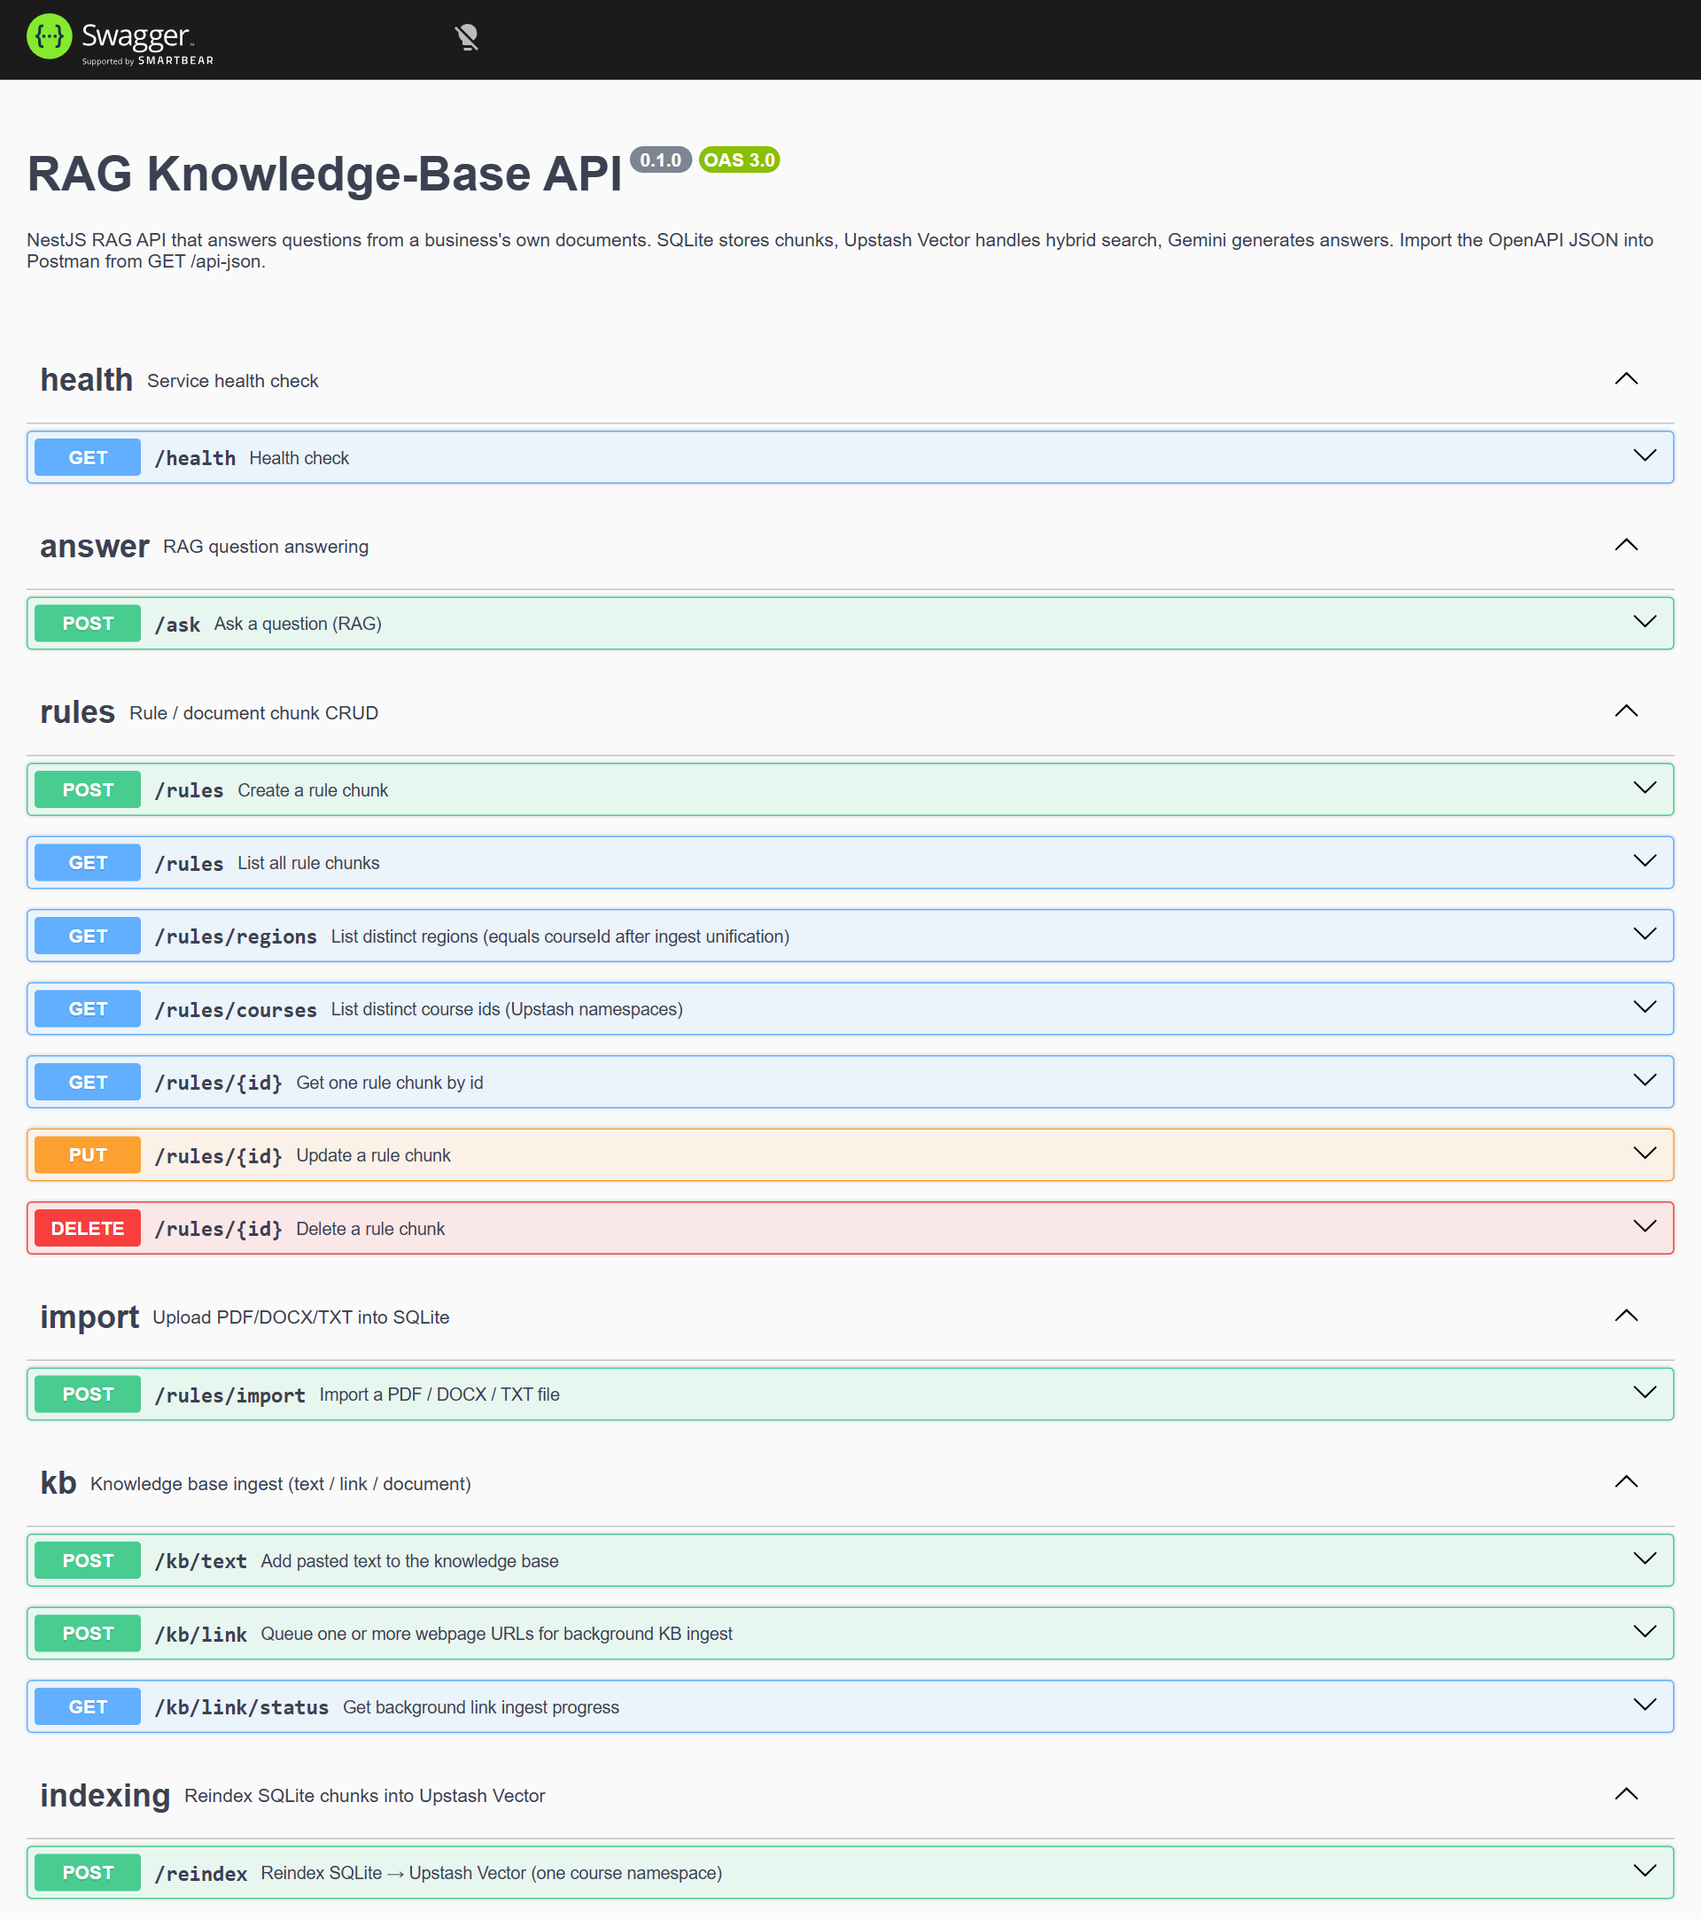
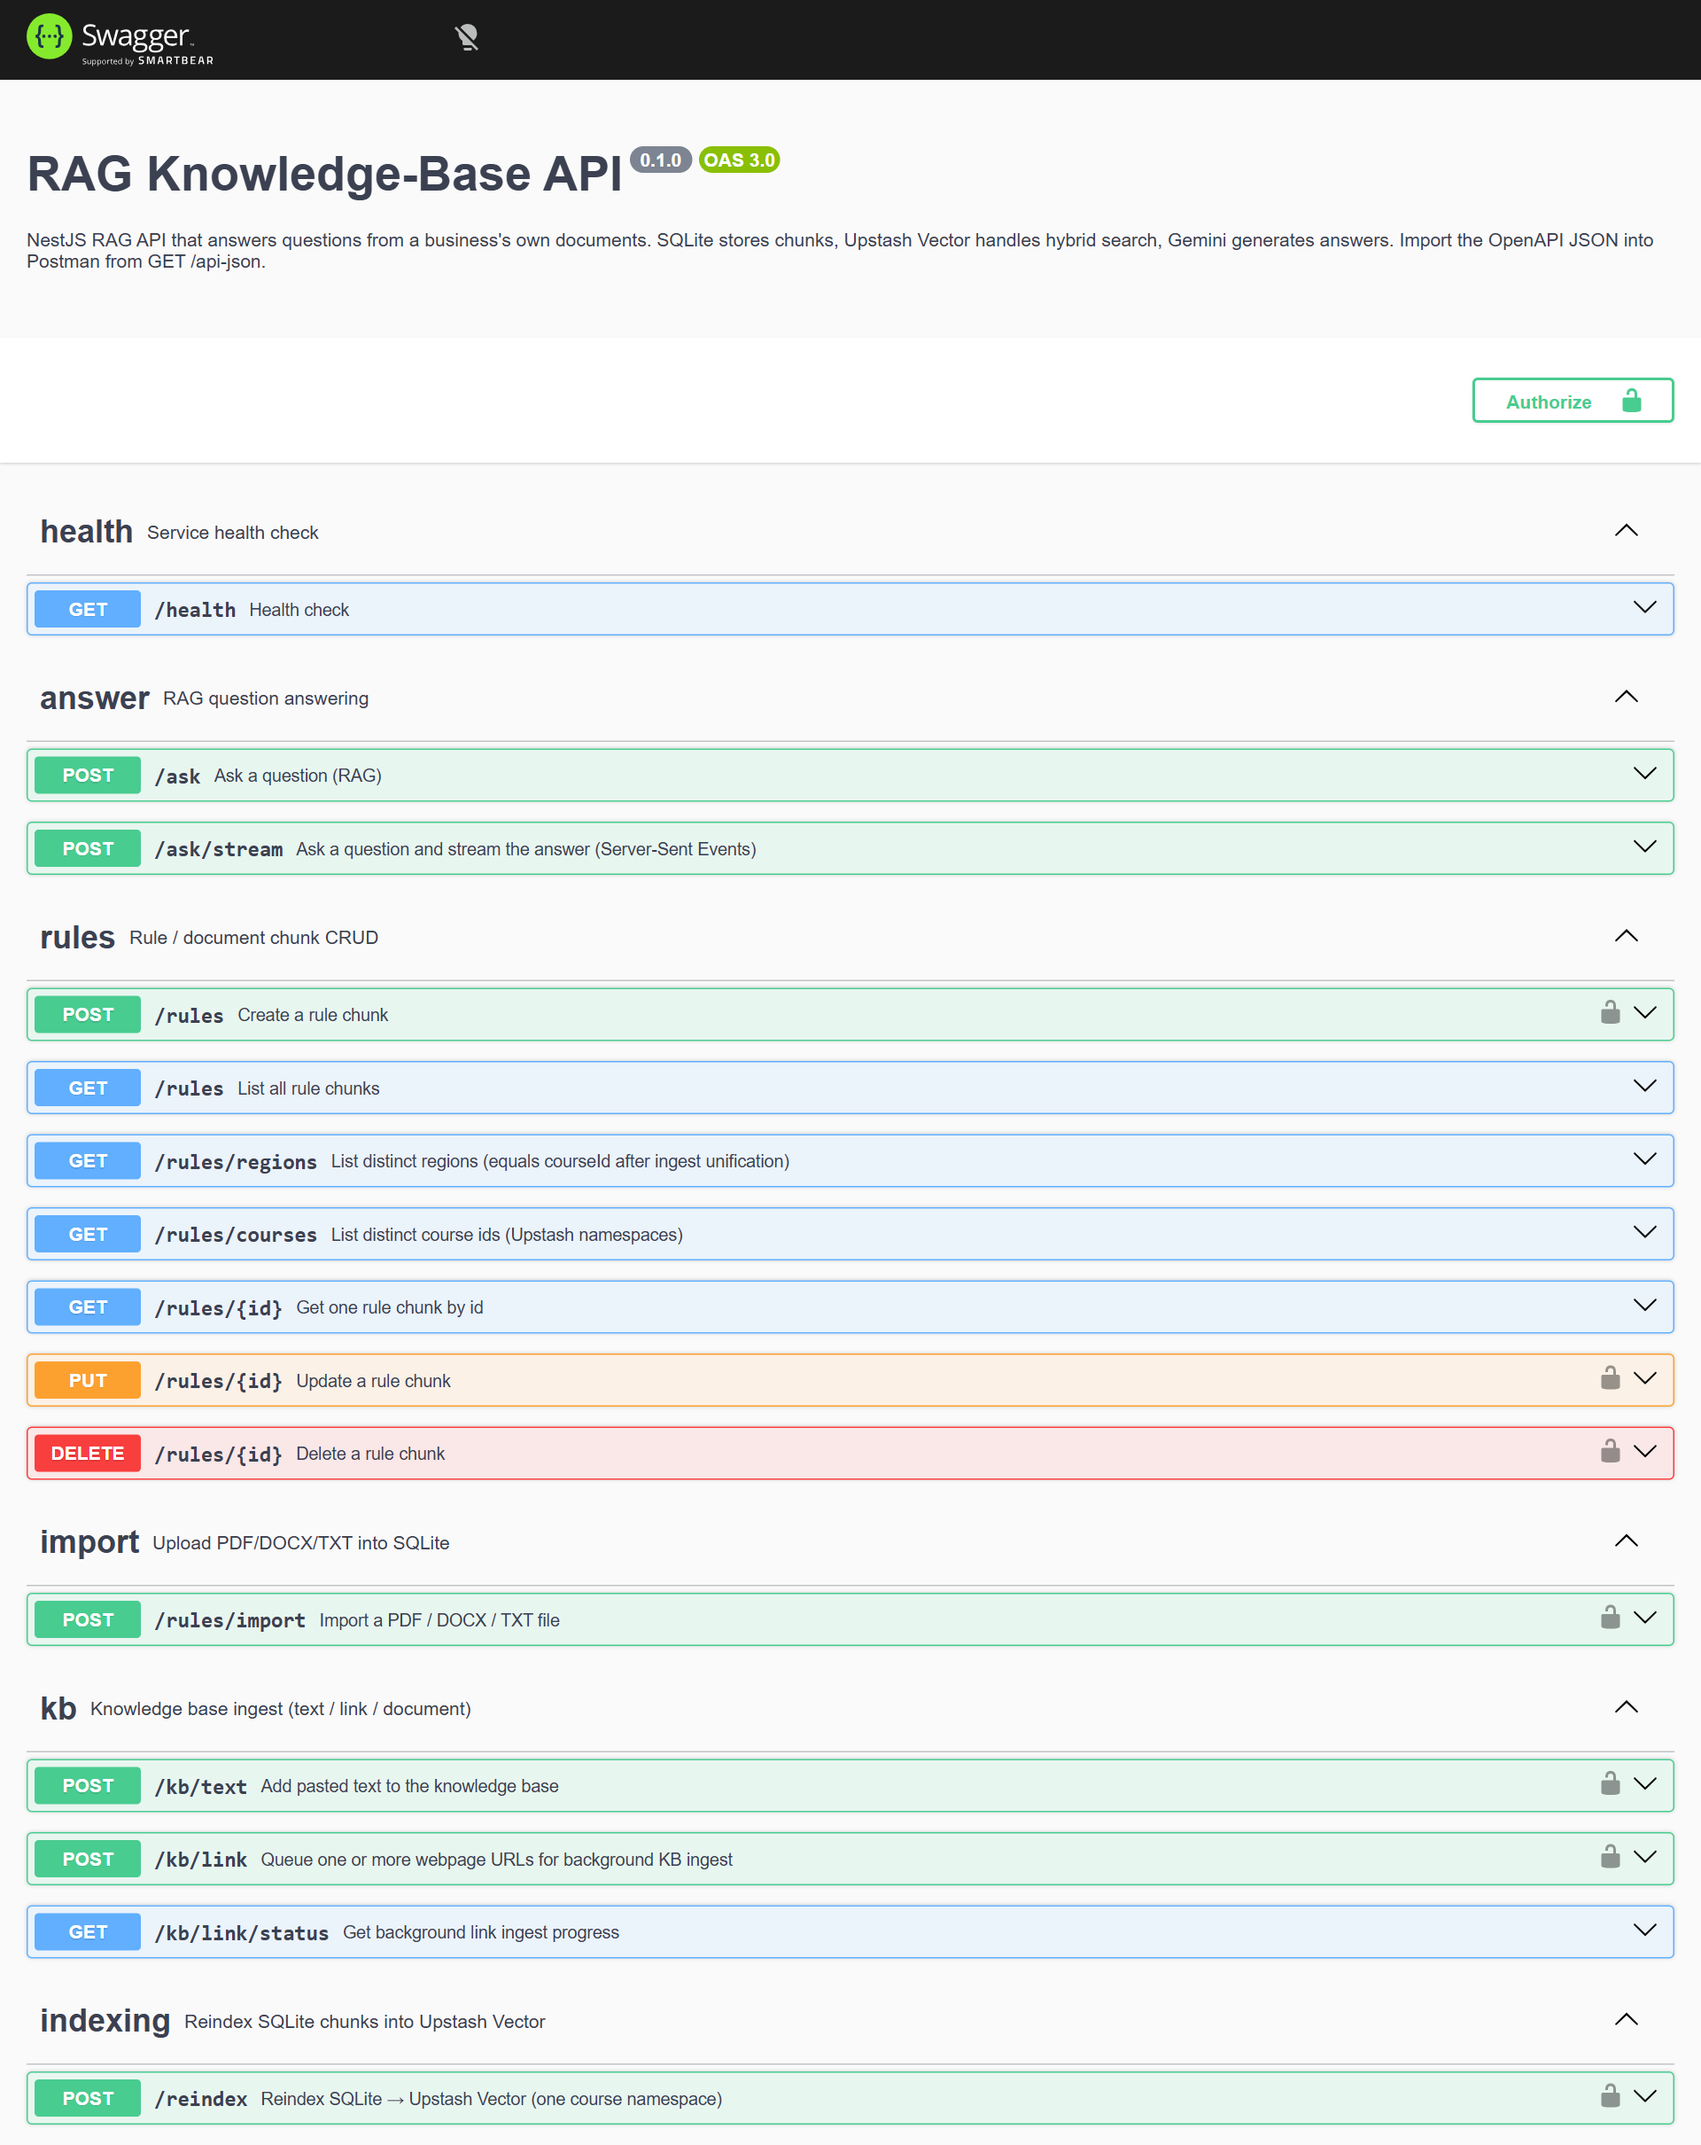
Update README with features, demo GIF and new screenshots

diff --git a/README.md b/README.md
@@ -1,9 +1,32 @@
-# RAG Knowledge-Base API (NestJS)
+# RAG Knowledge-Base (NestJS + React)
 
-A backend that answers questions using **only** a business's own documents.
-Upload PDFs, Word files, web pages or plain text; ask a question; get an answer grounded in those documents.
+[![CI](https://github.com/josephamal10/rag-knowledge-base-api/actions/workflows/ci.yml/badge.svg)](https://github.com/josephamal10/rag-knowledge-base-api/actions/workflows/ci.yml)
+![NestJS](https://img.shields.io/badge/NestJS-11-E0234E?logo=nestjs&logoColor=white)
+![React](https://img.shields.io/badge/React-19-61DAFB?logo=react&logoColor=black)
+![TypeScript](https://img.shields.io/badge/TypeScript-5-3178C6?logo=typescript&logoColor=white)
+![License: MIT](https://img.shields.io/badge/License-MIT-green)
 
-Built during my internship at **Nanonino** and shared with their permission. Client data, keys and client-specific code have been removed.
+A full-stack AI assistant that answers questions using **only** a business's own documents — rules, prices,
+rooms, events and contact details — and says so honestly when something isn't covered.
+Upload PDFs, Word files, web pages or plain text; ask a question; get a streamed answer with the sources it came from.
+
+- **Backend** (`/src`) — NestJS RAG API, built during my internship at **Nanonino** and shared with their permission. Client data, keys and client-specific code have been removed.
+- **Frontend** (`/frontend`) — React chat interface, added afterwards.
+
+![Demo: asking questions, a follow-up, and viewing sources](docs/images/demo.gif)
+
+## Features
+
+- **Grounded answers with citations** — every answer lists the document chunks it was based on; no made-up answers.
+- **Hybrid search** — semantic (Gemini embeddings) + keyword (sparse vectors) search in Upstash Vector, fused with Reciprocal Rank Fusion.
+- **Topic routing** — an LLM classifier picks the relevant topic(s) before searching; vague questions fall back to searching everything.
+- **Follow-up questions** — "and check-out?" is rewritten into a standalone question using the recent conversation.
+- **Streaming** — answers arrive word by word over Server-Sent Events (`POST /ask/stream`).
+- **Multi-tenant** — each club (`courseId`) is an isolated Upstash namespace.
+- **Ingestion** — PDF, Word (.docx), TXT, web pages (background job with retries) or pasted text.
+- **Production safeguards** — per-IP rate limiting, admin key for every write endpoint, configurable CORS, Zod validation.
+- **MCP server** — the same Q&A is exposed as a Model Context Protocol tool for AI agents.
+- **Tested & containerised** — Jest + Vitest unit tests, GitHub Actions CI, Docker Compose for one-command start.
 
 ## How it works
 
@@ -20,28 +43,42 @@ flowchart LR
 
     subgraph ask["2 · Answering a question"]
         direction LR
-        Q["Question<br/>+ courseId"] --> R{"Gemini:<br/>which topic?"}
-        R -- "vague / too broad" --> X["Ask the user<br/>to clarify"]
-        R -- "clear topic" --> S["Hybrid search<br/>meaning + keywords"]
-        S --> T["Gemini writes answer<br/>from found chunks only"]
+        H["Question + recent<br/>messages"] --> W["Rewrite follow-up<br/>(if any)"]
+        W --> R{"Gemini:<br/>which topic?"}
+        R -- "greeting / nothing found" --> X["Ask the user<br/>to clarify"]
+        R -- "topic(s)" --> S["Hybrid search<br/>meaning + keywords"]
+        S --> T["Gemini streams answer<br/>from found chunks only<br/>+ returns sources"]
     end
 
     F -. "search inside<br/>that course" .-> S
 ```
 
-1. **Ingest** — text is extracted (pdf-parse, mammoth, Readability), split into ~500-character chunks and saved to SQLite (the source of truth).
-2. **Index** — each chunk gets a dense Gemini embedding plus a sparse keyword vector, stored in an Upstash Vector **hybrid** index. Each course/customer gets its own namespace, so data never mixes.
-3. **Route** — Gemini classifies the question into a fixed set of topics (`golf-rules`, `lodging-info`, `events-info`, `contact-info`, `real-estate-info`), using a short description of each. If no topic fits, the whole course is searched instead; the user is only asked to clarify when nothing relevant is found (or for greetings like "hi").
-4. **Retrieve** — hybrid search (semantic + keyword, merged with Reciprocal Rank Fusion) inside the course namespace, filtered by topic.
-5. **Answer** — Gemini writes an answer using only the retrieved chunks, or says it doesn't know.
+1. **Ingest** — text is extracted (pdf-parse, mammoth, Readability), split into ~500-character chunks on word boundaries, and saved to SQLite (the source of truth).
+2. **Index** — each chunk gets a dense Gemini embedding plus a sparse keyword vector, stored in an Upstash Vector **hybrid** index under a content-hash id (re-indexing never re-embeds unchanged text).
+3. **Understand** — if recent messages are sent, a follow-up is rewritten into a standalone question.
+4. **Route** — Gemini classifies the question into topics (`golf-rules`, `lodging-info`, `events-info`, `contact-info`, `real-estate-info`) using a description of each.
+5. **Retrieve** — hybrid search (semantic + keyword, RRF) inside the course namespace, filtered by topic.
+6. **Answer** — Gemini answers using only the retrieved chunks (or replies `NO_ANSWER`, which becomes an honest "I don't have information"). The answer streams to the client, followed by its sources.
 
 ## Screenshots
 
-**Asking a question** — a vague question still gets a grounded answer from the ingested documents:
+**Chat** — streamed answers, topic tags, a follow-up understood from context, and the sources used:
 
-![POST /ask answering "Are dogs allowed?"](docs/images/ask-example.png)
+![Chat with a follow-up question and expanded sources](docs/images/frontend-chat.png)
 
-**All endpoints** (interactive Swagger UI at `/api`):
+**Add knowledge** — paste text, drag in a PDF / Word / TXT file, or import web pages by link (with live progress); it's chunked, embedded and indexed straight away:
+
+![Add knowledge panel with file upload](docs/images/frontend-add-knowledge.png)
+
+**How it works page** — plain-language explanation for visitors, Swagger / OpenAPI links, and a live API call showing the raw request and response:
+
+![How it works page: backend section with live API demo](docs/images/frontend-how-it-works.png)
+
+**Dark mode:**
+
+![Chat interface in dark mode](docs/images/frontend-dark.png)
+
+**API** — interactive Swagger UI at `/api` (with an **Authorize** button for the admin key):
 
 ![Swagger UI listing all endpoints](docs/images/swagger-overview.png)
 
@@ -49,28 +86,23 @@ flowchart LR
 
 | Piece | Role |
 |---|---|
-| **NestJS / TypeScript** | REST API and app structure |
+| **NestJS / TypeScript** | REST API, SSE streaming, guards, rate limiting (`@nestjs/throttler`) |
 | **SQLite + TypeORM** | Stores chunks, course id, category, titles |
 | **Upstash Vector (Hybrid)** | Dense + sparse search, one namespace per course |
-| **Google Gemini** | `gemini-embedding-001` embeddings; flash-lite model for routing and answers |
+| **Google Gemini** | `gemini-embedding-001` embeddings; flash-lite model for routing, follow-up rewriting and answers |
 | **pdf-parse, mammoth, @mozilla/readability, jsdom** | Text extraction from PDF, DOCX and web pages |
 | **Model Context Protocol (MCP)** | Exposes the Q&A as a tool for AI clients (stdio + Streamable HTTP) |
-| **Swagger** | Interactive API docs at `/api` |
+| **Swagger / OpenAPI** | Interactive API docs at `/api` |
 | **Zod** | Request and environment validation |
+| **React 19 + Vite + TypeScript** | Chat frontend (`/frontend`), plain CSS with light/dark mode |
+| **Jest, Vitest, GitHub Actions** | Unit tests and CI |
+| **Docker + nginx** | Containers and one-command local start |
 
-## Setup
+## Quick start
 
 ### 1. Create an Upstash Vector index
 
-In the [Upstash console](https://console.upstash.com), create a **Vector** index with:
-
-- **Type:** Hybrid
-- **Dense dimension:** `1536` (must match `EMBEDDING_DIMENSION`)
-- **Similarity:** Cosine
-- **Dense embedding model:** none (embeddings are sent by the app)
-- **Sparse model:** optional — the app builds its own sparse vectors
-
-Copy the REST URL and token.
+In the [Upstash console](https://console.upstash.com), create a **Vector** index: **Type** Hybrid · **Dense dimension** `1536` · **Similarity** Cosine · **Embedding model** none (the app sends its own embeddings and sparse vectors). Copy the REST URL and token.
 
 ### 2. Configure environment
 
@@ -80,25 +112,55 @@ cp .env.example .env
 
 Fill in `GEMINI_API_KEY`, `UPSTASH_VECTOR_REST_URL` and `UPSTASH_VECTOR_REST_TOKEN`.
 
-### 3. Install and run
+### 3a. Run with Docker (one command)
+
+```bash
+docker compose up --build
+```
+
+Frontend: `http://localhost:8080` · API + Swagger: `http://localhost:3000/api`. The fictional demo club is loaded automatically on first start.
+
+### 3b. Or run locally
 
 ```bash
 npm install
-npm run start:dev
+npm run seed        # load the fictional "demo-club" knowledge base (all five topics)
+npm run start:dev   # API on http://localhost:3000, Swagger at /api
 ```
 
-API: `http://localhost:3000` · Swagger UI: `http://localhost:3000/api`
+In a second terminal:
 
-## Usage
+```bash
+cd frontend
+npm install
+npm run dev         # http://localhost:5173
+```
+
+See [frontend/README.md](frontend/README.md) for frontend configuration.
+
+## API usage
 
 `courseId` (lowercase `a-z0-9_-`) and `category` are required on ingest. Imported files are deleted after a successful import.
 
 ```bash
+# Ask a question — returns the answer plus the source chunks it used
+curl -X POST http://localhost:3000/ask \
+  -H "Content-Type: application/json" \
+  -d '{"question":"What time is check-in?","courseId":"demo-club"}'
+
+# Follow-up: send recent turns as history
+curl -X POST http://localhost:3000/ask \
+  -H "Content-Type: application/json" \
+  -d '{"question":"and check-out?","courseId":"demo-club","history":[{"role":"user","content":"What time is check-in?"},{"role":"assistant","content":"From 3:00 PM."}]}'
+
+# Streamed answer (Server-Sent Events: meta → delta… → done)
+curl -N -X POST http://localhost:3000/ask/stream \
+  -H "Content-Type: application/json" \
+  -d '{"question":"How much is weekend golf?","courseId":"demo-club"}'
+
 # Import a document
 curl -X POST http://localhost:3000/rules/import \
-  -F "courseId=demo-club" \
-  -F "category=golf-rules" \
-  -F "file=@path/to/rules.pdf"
+  -F "courseId=demo-club" -F "category=golf-rules" -F "file=@path/to/rules.pdf"
 
 # Add pasted text
 curl -X POST http://localhost:3000/kb/text \
@@ -110,18 +172,34 @@ curl -X POST http://localhost:3000/kb/link \
   -H "Content-Type: application/json" \
   -d '{"urls":["https://example.com/club-rules"],"courseId":"demo-club","category":"golf-rules"}'
 
-# Ask a question
-curl -X POST http://localhost:3000/ask \
-  -H "Content-Type: application/json" \
-  -d '{"question":"Can I take a cart out when the course is wet?","courseId":"demo-club"}'
-
 # Rebuild one course's vectors from SQLite
 curl -X POST http://localhost:3000/reindex \
-  -H "Content-Type: application/json" \
-  -d '{"courseId":"demo-club"}'
+  -H "Content-Type: application/json" -d '{"courseId":"demo-club"}'
 ```
 
 Other endpoints: `GET/POST/PUT/DELETE /rules`, `GET /rules/courses`, `GET /health`.
+
+### Security settings (for a public deployment)
+
+| Variable | Effect |
+|---|---|
+| `ADMIN_API_KEY` | When set, every endpoint that changes data requires the `x-admin-key` header. Asking questions stays public. |
+| `RATE_LIMIT_PER_MINUTE` | Requests per client IP per minute, per endpoint (default 30). `/health` is exempt. |
+| `CORS_ORIGIN` | Comma-separated frontend origins allowed to call the API (unset = allow all). |
+| `TRUST_PROXY` | `true` behind a reverse proxy (Render, nginx) so rate limiting sees the real client IP. |
+
+## Testing
+
+```bash
+npm test                    # backend: Jest (answer pipeline, streaming, chunking, sparse vectors, guards…)
+cd frontend && npm test     # frontend: Vitest (streaming parser)
+```
+
+The answer pipeline is tested with Gemini and the vector store mocked, so tests run in seconds without API keys. GitHub Actions runs type-checks, lint, tests and builds for both apps on every push.
+
+## Deployment
+
+The backend deploys to **Render** ([`render.yaml`](render.yaml)) and the frontend to **Vercel**, as a read-only public demo. Step-by-step guide: **[DEPLOY.md](DEPLOY.md)**.
 
 ## MCP
 
@@ -132,6 +210,8 @@ The tool `information_query` takes `question` and `courseId`.
 
 ## Known limitations
 
-- No authentication — do not expose publicly without adding an auth guard and rate limiting.
+- Answers only cover what's in the documents — no live data (e.g. which tee times are free right now).
+- Conversation memory covers the last few messages sent by the client; nothing is stored server-side.
 - `POST/PUT/DELETE /rules` update SQLite only; run `/reindex` afterwards to sync vectors.
-- Fixed-size character chunking; section-aware chunking would improve retrieval on structured documents.
+- Fixed-size character chunking; section-aware chunking would improve retrieval on long structured documents.
+- The demo data (`demo-club`) is fictional.
